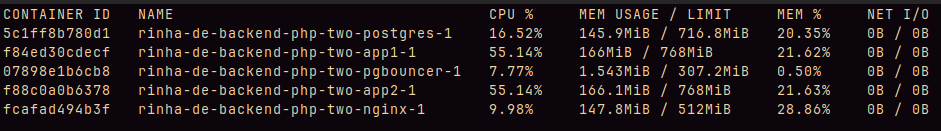
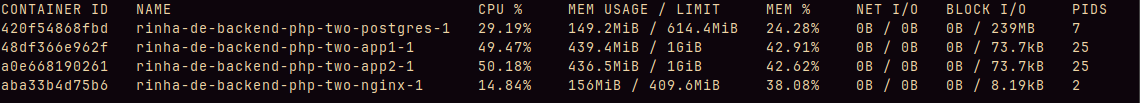
update results

diff --git a/README.md b/README.md
@@ -122,38 +122,35 @@ A contagem de pessoas é: 33707
 
 ![resultado gatling navegador part 1](./images/laptop/two/gatling-browser-1.png)
 ![resultado gatling navegador part 2](./images/laptop/two/gatling-browser-2.png)
+![resultado gatling navegador part 3](./images/laptop/two/gatling-browser-3.png)
 
 ##### Resultado do gatling console
 
 ```
-Simulation RinhaBackendSimulation completed in 253 seconds
+Simulation RinhaBackendSimulation completed in 229 seconds
 Parsing log file(s)...
 Parsing log file(s) done
 Generating reports...
 
 ================================================================================
 ---- Global Information --------------------------------------------------------
-> request count                                      94168 (OK=57216  KO=36952 )
-> min response time                                      0 (OK=2      KO=0     )
-> max response time                                  33477 (OK=33477  KO=160   )
-> mean response time                                 11373 (OK=18686  KO=50    )
-> std deviation                                      13477 (OK=12752  KO=34    )
-> response time 50th percentile                       1344 (OK=22005  KO=47    )
-> response time 75th percentile                      27803 (OK=30801  KO=74    )
-> response time 95th percentile                      32540 (OK=32976  KO=113   )
-> response time 99th percentile                      33196 (OK=33255  KO=132   )
-> mean requests/sec                                 370.74 (OK=225.26 KO=145.48)
+> request count                                     114991 (OK=114991 KO=0     )
+> min response time                                      1 (OK=1      KO=-     )
+> max response time                                  17585 (OK=17585  KO=-     )
+> mean response time                                  4458 (OK=4458   KO=-     )
+> std deviation                                       5560 (OK=5560   KO=-     )
+> response time 50th percentile                       1269 (OK=1267   KO=-     )
+> response time 75th percentile                       8503 (OK=8503   KO=-     )
+> response time 95th percentile                      15657 (OK=15657  KO=-     )
+> response time 99th percentile                      17033 (OK=17033  KO=-     )
+> mean requests/sec                                499.961 (OK=499.961 KO=-     )
 ---- Response Time Distribution ------------------------------------------------
-> t < 800 ms                                          9195 ( 10%)
-> 800 ms <= t < 1200 ms                                718 (  1%)
-> t >= 1200 ms                                       47303 ( 50%)
-> failed                                             36952 ( 39%)
----- Errors --------------------------------------------------------------------
-> status.find.in(201,422,400), but actually found 502             24493 (66.28%)
-> status.find.in([200, 209], 304), found 502                      10774 (29.16%)
-> status.find.is(400), but actually found 502                      1685 ( 4.56%)
+> t < 800 ms                                         53508 ( 47%)
+> 800 ms <= t < 1200 ms                               3459 (  3%)
+> t >= 1200 ms                                       58024 ( 50%)
+> failed                                                 0 (  0%)
 ================================================================================
-A contagem de pessoas é: 25753
+A contagem de pessoas é: 46576
 ```
 
 ##### Recusos do docker durante a parte mais pesada do teste
